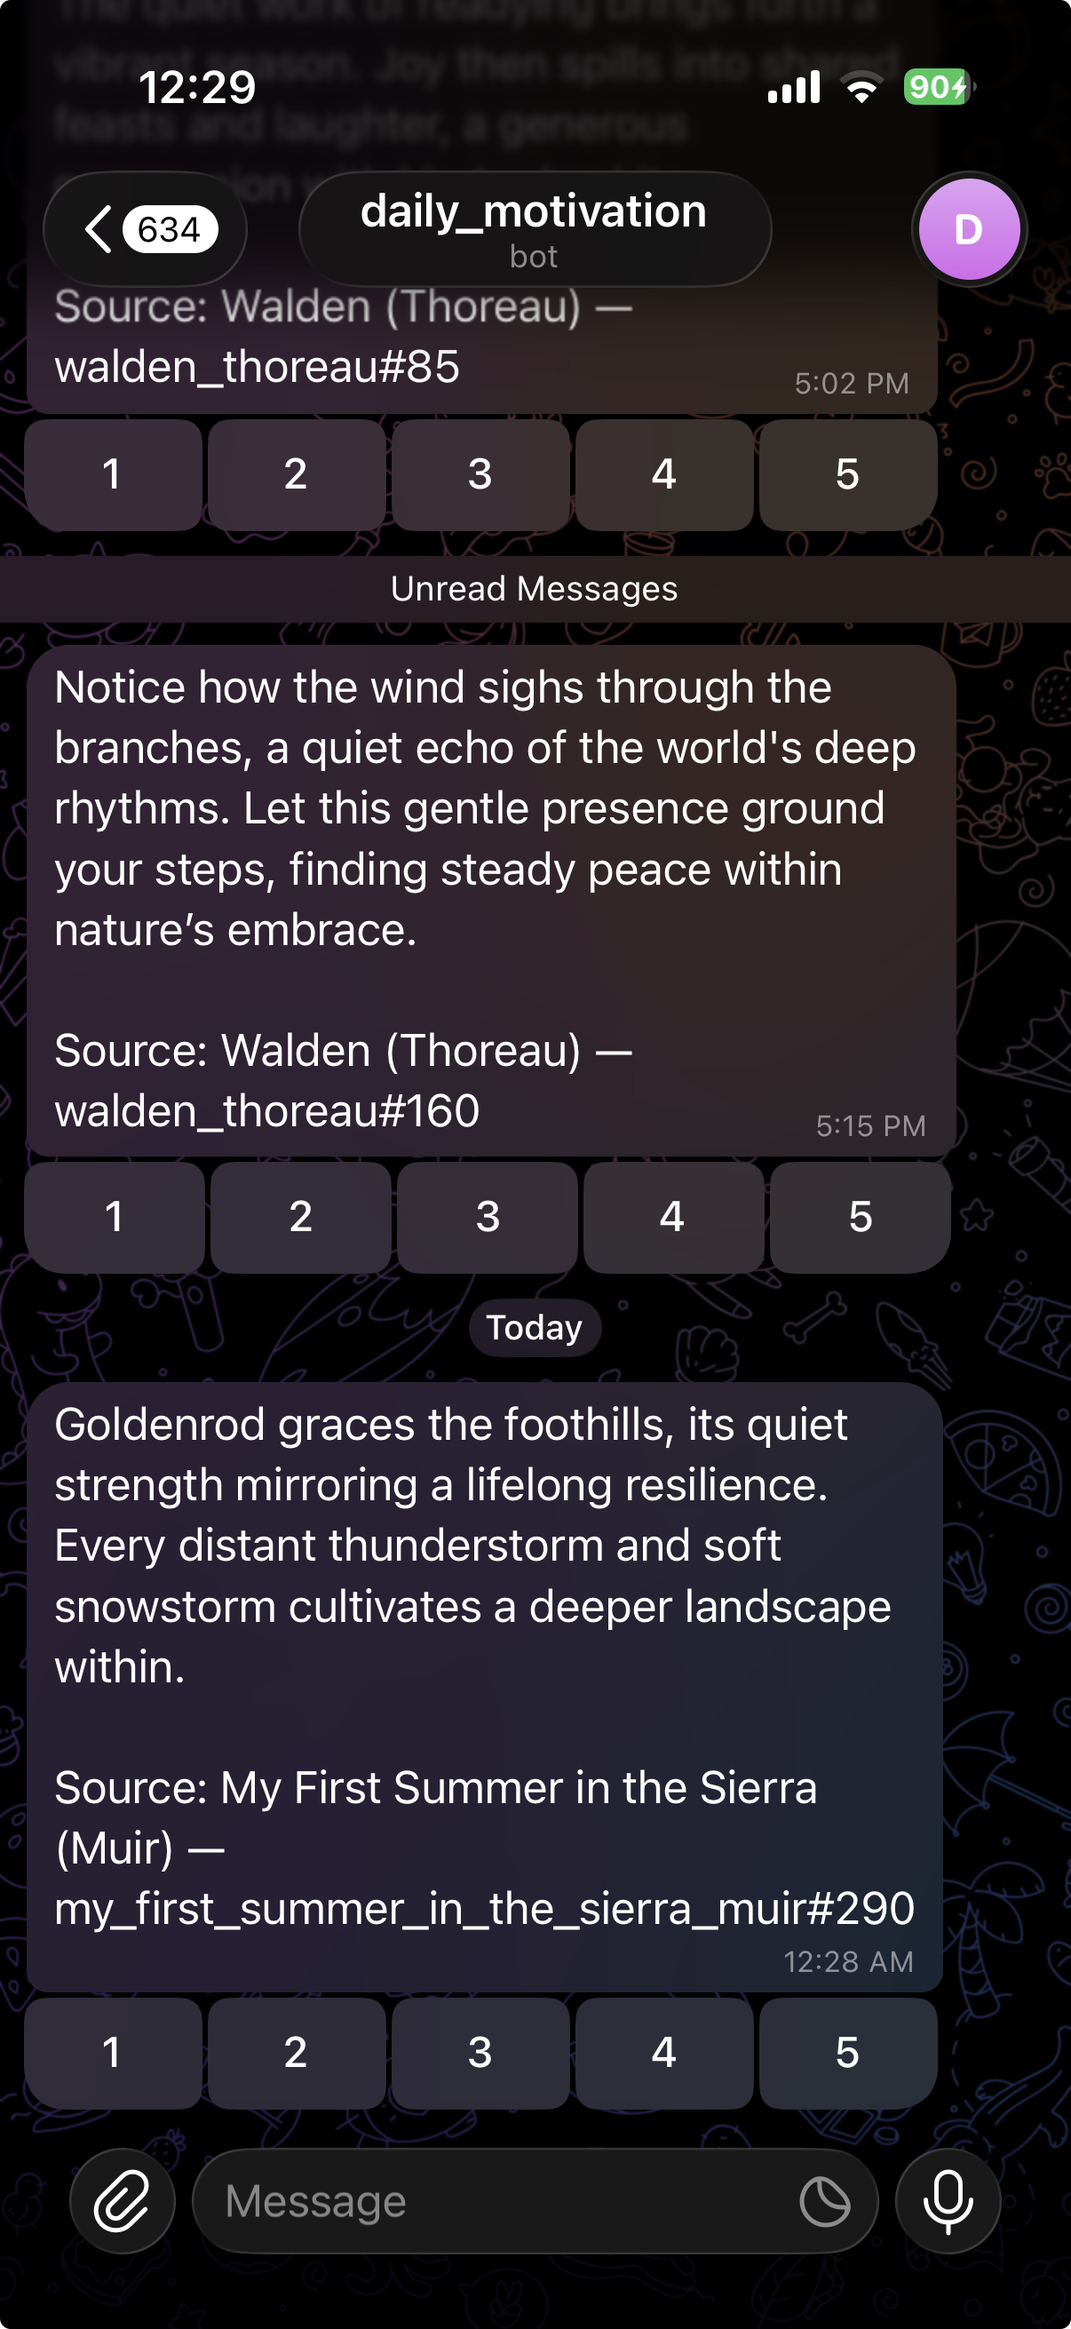
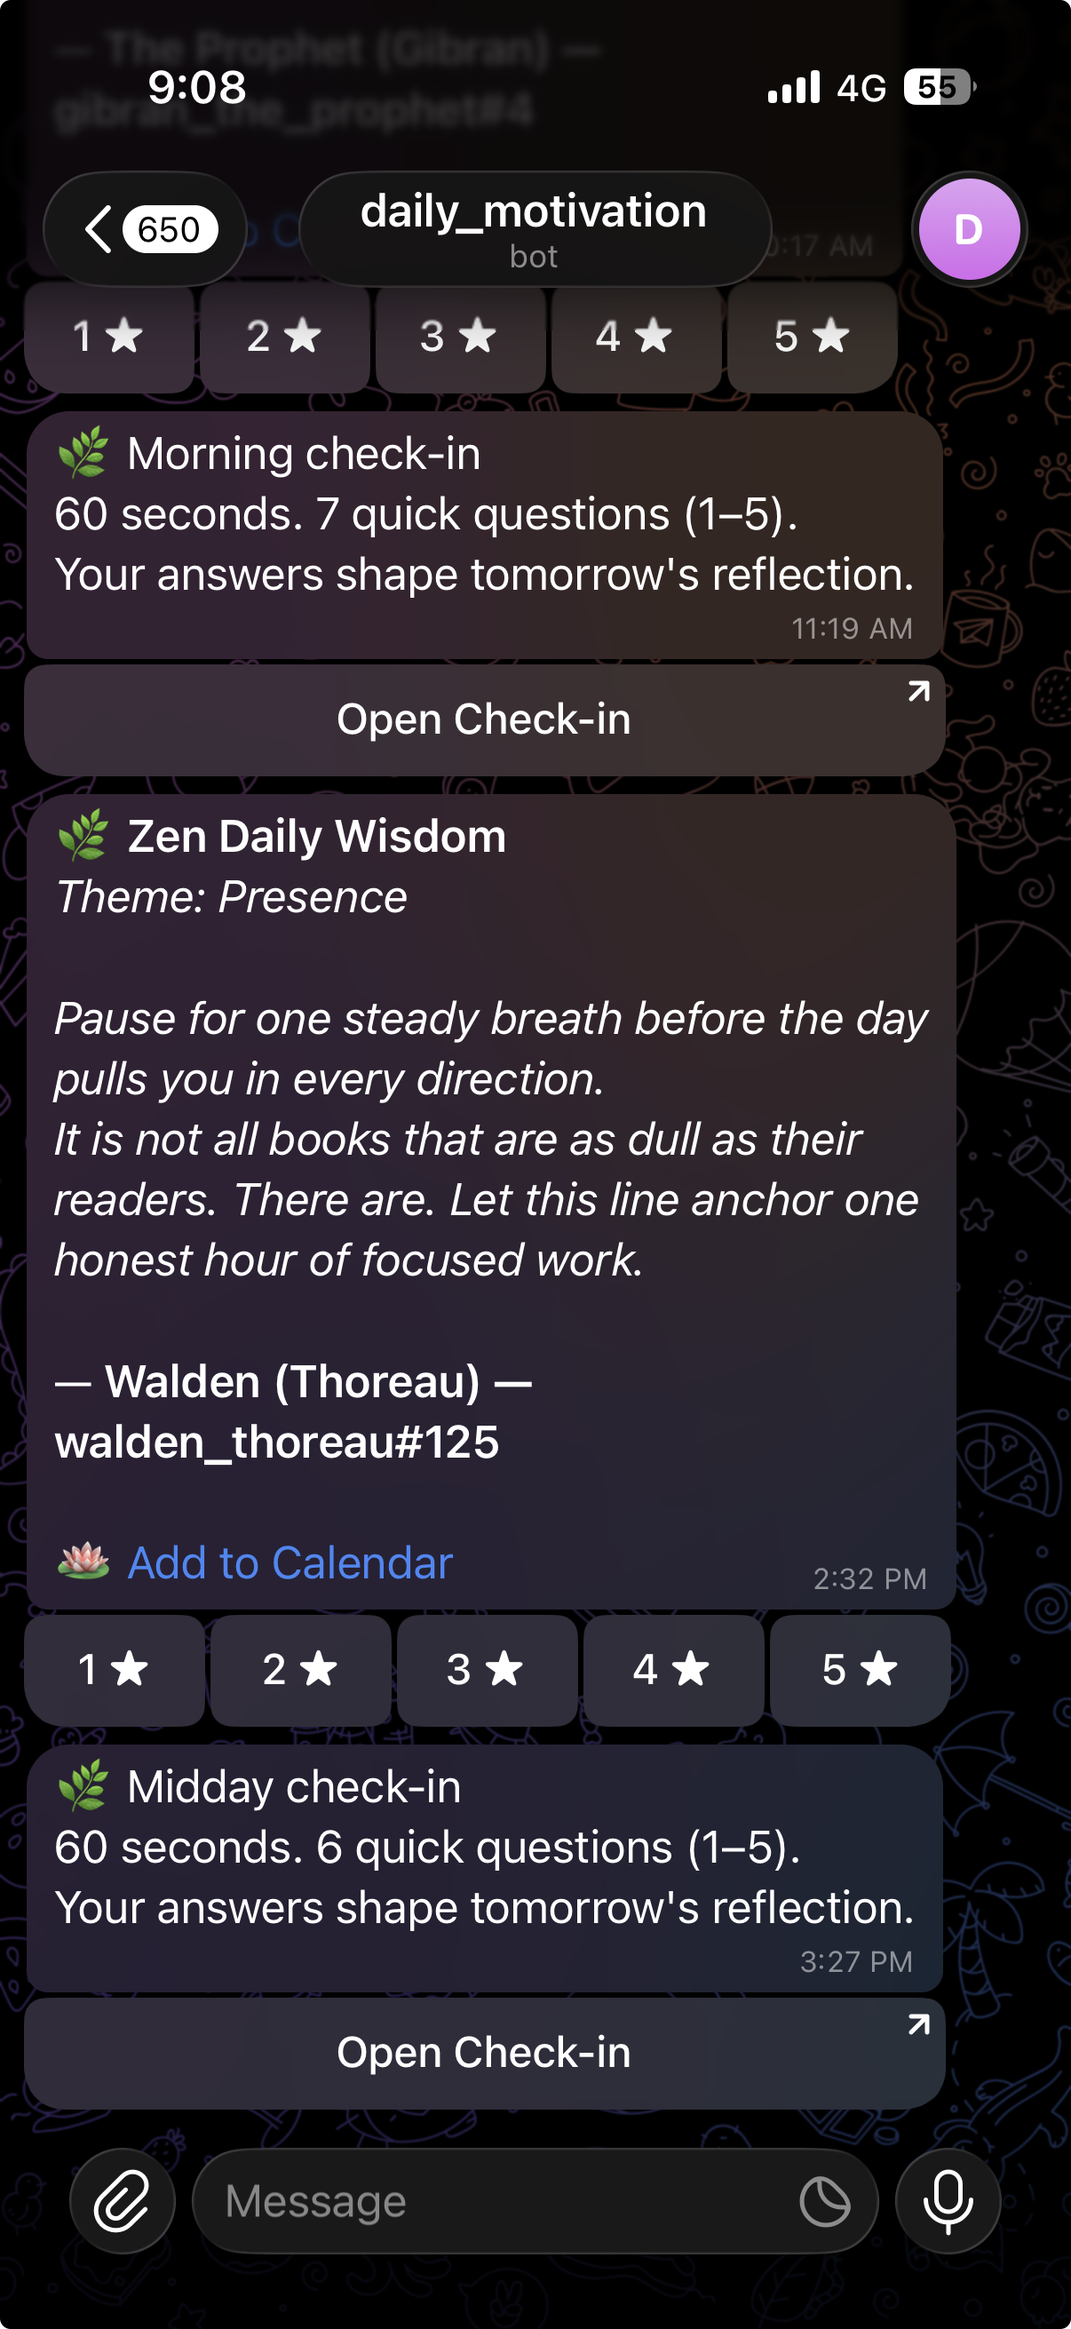
Beautify README — tech-stack badges, screenshot grid, evaluation summary, contact.
- Tech-stack shields-row (Python, FastAPI, Next.js, Supabase, pgvector,
  Gemini, Tailwind, Recharts, Jupyter, Pytest, Vercel, Northflank).
- 5 product screenshots arranged as a clean 2×2 grid + a centered
  Telegram column for the mobile shot.
- Architecture sketch as a small ASCII diagram (no extra rendering
  dependency).
- Evaluation table linking to the four notebooks with their headline
  numbers (bandit regret, recall@5, corpus stats, faithfulness status).
- Cost ledger making the $0/month design constraint explicit.
- Disclaimer + author contact at the end.

Old README was a working scaffold doc; this one is portfolio-readable
without losing any of the quick-start commands.

Made-with: Cursor

diff --git a/README.md b/README.md
@@ -1,89 +1,250 @@
+<div align="center">
+
 # Zen Daily Wisdom
 
-Personalized daily wisdom service using FastAPI, Next.js, Supabase, and Gemini with RAG, mood check-ins, and email/Telegram delivery.
+**A personal RAG service that delivers one short, grounded reflection per day — Stoic, Indian, Sufi, Zen, naturalist — to email and Telegram, tuned by your own mood check-ins.**
 
-Zen Daily Wisdom is a personal full-stack project that delivers short, high-quality daily reflections through Gmail and Telegram. It combines retrieval-augmented generation over a curated wisdom corpus, style rotation, and feedback/check-in personalization to improve relevance over time.
+[![Python](https://img.shields.io/badge/Python-3.12-3776AB?logo=python&logoColor=white)](https://www.python.org)
+[![FastAPI](https://img.shields.io/badge/FastAPI-0.115-009688?logo=fastapi&logoColor=white)](https://fastapi.tiangolo.com)
+[![Next.js](https://img.shields.io/badge/Next.js-15-000000?logo=nextdotjs&logoColor=white)](https://nextjs.org)
+[![TypeScript](https://img.shields.io/badge/TypeScript-5-3178C6?logo=typescript&logoColor=white)](https://www.typescriptlang.org)
+[![Supabase](https://img.shields.io/badge/Supabase-3ECF8E?logo=supabase&logoColor=white)](https://supabase.com)
+[![PostgreSQL](https://img.shields.io/badge/PostgreSQL-pgvector-336791?logo=postgresql&logoColor=white)](https://www.postgresql.org)
+[![Gemini](https://img.shields.io/badge/Gemini-2.5_Flash-4285F4?logo=googlegemini&logoColor=white)](https://ai.google.dev)
+[![Tailwind](https://img.shields.io/badge/Tailwind-4-06B6D4?logo=tailwindcss&logoColor=white)](https://tailwindcss.com)
+[![Recharts](https://img.shields.io/badge/Recharts-3-22B5BF?logo=react&logoColor=white)](https://recharts.org)
+[![Jupyter](https://img.shields.io/badge/Jupyter-Notebooks-F37626?logo=jupyter&logoColor=white)](https://jupyter.org)
+[![Pytest](https://img.shields.io/badge/Pytest-87_passing-0A9EDC?logo=pytest&logoColor=white)](https://pytest.org)
+[![Vercel](https://img.shields.io/badge/Vercel-Hosted-000000?logo=vercel&logoColor=white)](https://vercel.com)
+[![Northflank](https://img.shields.io/badge/Northflank-Hosted-7C5CFC)](https://northflank.com)
+[![License](https://img.shields.io/badge/license-Personal-555)](#disclaimer)
+[![Cost](https://img.shields.io/badge/cost-%240%2Fmonth-2f5b4f)](#cost)
 
-Canonical implementation details live in:
+</div>
 
-- `IMPLEMENTATION_PLAN.md`
+---
 
-## Current status
+## What it is
 
-- Manual credentials mostly completed (see `MANUAL_ACTIONS_REQUIRED.md`)
-- Python environment + corpus assets downloaded
-- Backend/FastAPI scaffold created
-- Frontend/Next.js scaffold created
-- Supabase migration skeleton added
-- CI + daily cron + keepalive workflows added
-- Check-in reminder cron workflow added (3x/day IST)
-- Dashboard auth gate + allowlist enabled (Supabase magic-link)
-- Telegram webhook endpoint added for inline rating and `/mood`
-- Northflank migration started for backend hosting
+A full-stack personal service combining **retrieval-augmented generation** over a hand-curated wisdom corpus, **time-aware EMA-style mood check-ins**, **Thompson-sampling personalization**, and beautifully styled multi-channel delivery — all on a strict $0/month free-tier budget.
 
-## Quick start (backend scaffold)
+- **Retrieval.** 4,606 public-domain passages from 13 traditions (Marcus Aurelius, Bhagavad Gita, Tao Te Ching, Thoreau, Rumi, Dhammapada, Aesop, etc.) chunked and embedded into pgvector.
+- **Generation.** Gemini 2.5 Flash composes a 30–60 word reflection grounded in one retrieved passage, with a forbidden-phrase / cliché-rejection guard and a faithfulness check against the source.
+- **Personalization.** A Thompson-sampling bandit over `(tradition, tone)` super-arms learns your taste from your own ratings; check-in answers (sleep, energy, focus, day-load, motivation, calm — questions that *vary by time of day*) feed a 0–100 weighted **Mood Score** that conditions retrieval.
+- **Delivery.** Zen-styled HTML email (Gmail API), Telegram with inline rating buttons, and a public no-login check-in form opened from a signed deep link.
+- **Eval.** Reproducible Jupyter notebooks for bandit convergence, corpus stats, RAG recall@k, and faithfulness — see [`EVALUATION.md`](EVALUATION.md).
+
+---
+
+## See it
+
+<table>
+  <tr>
+    <td width="50%" valign="top">
+      <p align="center"><b>Landing page</b><br/><sub>Vercel · public root</sub></p>
+      <img src="screenshots/frontend-page.png" alt="Public landing page" width="100%"/>
+    </td>
+    <td width="50%" valign="top">
+      <p align="center"><b>Dashboard</b><br/><sub>14-day mood trend, animated stats, Gemini-written fortnight narrative</sub></p>
+      <img src="screenshots/dashboard.png" alt="Authenticated dashboard" width="100%"/>
+    </td>
+  </tr>
+  <tr>
+    <td width="50%" valign="top">
+      <p align="center"><b>Daily reflection email</b><br/><sub>One passage · one grounded reflection · 1–5 rating buttons</sub></p>
+      <img src="screenshots/email-reflections.png" alt="Daily reflection email" width="100%"/>
+    </td>
+    <td width="50%" valign="top">
+      <p align="center"><b>Check-in reminder email</b><br/><sub>Window-tailored questions · signed no-login deep link</sub></p>
+      <img src="screenshots/email-checkin.png" alt="Check-in reminder email" width="100%"/>
+    </td>
+  </tr>
+  <tr>
+    <td colspan="2" align="center">
+      <p><b>Telegram delivery</b> — the same daily reflection plus check-in prompts, with inline rating buttons that update the bandit posterior in real time.</p>
+      <img src="screenshots/telegram-screenshot.png" alt="Telegram delivery" width="320"/>
+    </td>
+  </tr>
+</table>
+
+---
+
+## Architecture
+
+```
+                  ┌───────────────────────────────────────────────────┐
+                  │  GitHub Actions (cron)                            │
+                  │  · daily.yml      01:30 UTC / 07:00 IST           │
+                  │  · checkin-reminders.yml  3×/day IST              │
+                  │  · keepalive.yml  every 3 days                    │
+                  └───────────────┬───────────────────────────────────┘
+                                  │ HMAC-signed POST
+                                  ▼
+       ┌──────────────────────────┴──────────────────────────┐
+       │  FastAPI on Northflank — sandbox, always-on, $0     │
+       │  ───────────────────────────────────────────────    │
+       │  /internal/generate          /internal/checkin-…    │
+       │  /checkin/by-token (public)  /feedback (HMAC link)  │
+       │  /dashboard/* (Supabase JWT) /telegram/webhook      │
+       └────┬──────────────┬──────────┬──────────┬───────────┘
+            │              │          │          │
+            ▼              ▼          ▼          ▼
+   ┌────────────┐  ┌──────────────┐ ┌─────────┐ ┌──────────────┐
+   │  pgvector  │  │ Gemini 2.5   │ │  Gmail  │ │   Telegram   │
+   │ (Supabase) │  │ Flash + Emb. │ │   API   │ │    Bot API   │
+   │ 4,606 rows │  │  free tier   │ │         │ │              │
+   └─────┬──────┘  └──────┬───────┘ └─────────┘ └──────────────┘
+         │                │
+         │                └─── grounded reflection generation
+         │                     + per-submit Gemini observation
+         │                     + weekly fortnight narrative
+         │
+         └── Thompson-sampling bandit over (tradition, tone)
+             updates `bandit_state` on each feedback insert (PG trigger)
+
+                 Vercel — Next.js 15 dashboard + public /checkin form
+```
+
+**Key design decisions** are recorded as ADRs in [`IMPLEMENTATION_PLAN.md`](IMPLEMENTATION_PLAN.md) §20 — covering the choice of pgvector over Pinecone/Chroma, the two-tier corpus model, why Telegram instead of WhatsApp, the move from PIL image cards to text formatting, and the token-signed in-email check-in flow.
+
+---
+
+## Tech stack at a glance
+
+| Layer | Choice | Why |
+|---|---|---|
+| Frontend | Next.js 15 (App Router) on Vercel | Hobby tier; React Server Components; no sleep |
+| Frontend types | TypeScript 5 | Type safety on the client |
+| Styling | Tailwind 4 + custom zen tokens | Fast iteration; one palette across email + UI |
+| Charts | Recharts 3 | 14-day mood trend on the dashboard |
+| Backend | FastAPI 0.115 (Python 3.12) on Northflank | Async; clean OpenAPI; sandbox always-on |
+| Package mgr | `uv` (Python) · `pnpm` (JS) | Fast, lockfile-strict |
+| DB / vectors | Supabase Postgres + pgvector | One service for rows, vectors, auth, RLS |
+| LLM | Gemini 2.5 Flash + `text-embedding-004` | Generous free tier, 1M-token context |
+| Email | Gmail API + Jinja2 templates | Free; multi-recipient; HMAC-signed rating links |
+| Messaging | Telegram Bot API | Free, instant, inline keyboards for ratings |
+| Calendar | Google Calendar API | Native subscription from iPhone + Mac |
+| Scheduling | GitHub Actions cron | Free on private repos |
+| Tests | Pytest (87 passing) + Vitest | Backend math + endpoints + frontend types |
+| Eval | Jupyter notebooks + matplotlib | Bandit convergence, recall@k, corpus stats, faithfulness |
+
+---
+
+## Highlights
+
+- **Zero recurring cost.** Gmail / Telegram / Calendar / Gemini / GitHub Actions / Vercel Hobby / Northflank Sandbox / Supabase free tier — every paid surface is explicitly avoided. See `IMPLEMENTATION_PLAN.md` §15.
+- **Faithfulness-guarded RAG.** Every generated reflection is checked for token overlap with the retrieved passage and rejected on cliché openers (`"the passage…"`, `"this passage…"`) or known-bad phrases (`"you've got this"`, `"trust the journey"`, etc.).
+- **Bandit math, not theatre.** Posteriors live in a `bandit_state` table and update via a PG trigger on each feedback insert. The notebook in [`notebooks/bandit_convergence.ipynb`](notebooks/bandit_convergence.ipynb) shows convergence to the optimal arm within ~150–200 rounds at the production ε = 0.15.
+- **Time-tailored check-ins.** Morning, midday, and evening windows ask different questions (`sleep_quality` only matters in the morning; `tomorrow_clarity` only in the evening). 14-day weighted Mood Score on a 0–100 scale, with reverse-coded "challenge" items handled correctly. See `IMPLEMENTATION_PLAN.md` §12.5.
+- **One-click check-ins.** A signed token in the reminder email opens a no-login form on Vercel; submission writes to Supabase and returns a Gemini observation + a related corpus passage in the same screen.
+- **Hardened delivery.** Per-recipient Gmail send tolerates one bad address; localhost guard refuses to render broken URLs into outgoing email; bandit/Gemini failures degrade gracefully and never block the daily send.
+
+---
+
+## Evaluation
+
+Reproducible numbers in [`EVALUATION.md`](EVALUATION.md), backed by four committed notebooks:
+
+| Notebook | What it shows | Headline |
+|---|---|---|
+| [`bandit_convergence.ipynb`](notebooks/bandit_convergence.ipynb) | 30 seeds × 600 rounds × 3 regimes of synthetic Thompson sampling | Mean cumulative regret 47.1 (production) vs 124.8 (uniform baseline) |
+| [`corpus_stats.ipynb`](notebooks/corpus_stats.ipynb) | Per-tradition counts, length buckets, theme coverage, super-arm viability | 4,606 passages · 13 traditions · 13 viable arms · 0 theme holes |
+| [`rag_eval.ipynb`](notebooks/rag_eval.ipynb) | Recall@k over 30 hand-labeled queries pulled from `config/personal.yaml` stress themes | recall@5 = 0.767 (target ≥ 0.80; gap diagnosed in `EVALUATION.md` §3) |
+| [`faithfulness.ipynb`](notebooks/faithfulness.ipynb) | Token-overlap of generated reflection vs source passage | Framework shipped; numbers fill in once `sent_history` accumulates ≥ 30 rows |
+
+---
+
+## Quick start
 
 ```bash
+# Backend (FastAPI + pgvector)
 source .venv/bin/activate
 uv pip install -e "./apps/backend[dev]"
 uvicorn zen_backend.main:app --app-dir apps/backend/src --reload --port 8000
-```
 
-Health check:
+# Frontend (Next.js)
+corepack enable && corepack prepare pnpm@latest --activate
+pnpm install
+pnpm frontend:dev
 
-```bash
+# Smoke test
 curl http://localhost:8000/health
-```
 
-Apply Supabase migrations (after setting `SUPABASE_DB_DSN`):
-
-```bash
-source .venv/bin/activate
+# Apply Supabase migrations (after setting SUPABASE_DB_DSN)
 python scripts/apply_supabase_migrations.py
-```
 
-Seed passages from downloaded corpus assets:
-
-```bash
-source .venv/bin/activate
+# Seed the corpus from public-domain source files
 python scripts/seed_passages_to_supabase.py --include-silver
-```
-
-Backfill pgvector embeddings for seeded passages:
-
-```bash
-source .venv/bin/activate
 python scripts/backfill_passage_embeddings.py
-```
 
-Trigger generation endpoint locally (when backend is running):
-
-```bash
-source .venv/bin/activate
+# Trigger a generation locally
 python scripts/run_internal_generate.py --force
 ```
 
-## Quick start (frontend scaffold)
+Required environment variables and one-time manual setup are documented in `MANUAL_ACTIONS_REQUIRED.md` (gitignored — not in this repo). High level:
 
-1. Install pnpm (if missing): `corepack enable && corepack prepare pnpm@latest --activate`
-2. Install deps: `pnpm install`
-3. Run app: `pnpm frontend:dev`
+- Supabase: project + service role key + DSN (use the **pooler** DSN locally; direct hosts are deprecated)
+- Gemini: API key from a billing-disabled GCP project
+- Gmail OAuth + Google Calendar OAuth refresh tokens
+- Telegram bot token + webhook secret
+- HMAC secrets for `INTERNAL_HMAC_SECRET`, `FEEDBACK_LINK_SECRET`, optional `CHECKIN_LINK_SECRET`
 
-Required auth env vars:
+Northflank deployment guide: [`docs/NORTHFLANK_BACKEND_DEPLOY.md`](docs/NORTHFLANK_BACKEND_DEPLOY.md).
 
-- `NEXT_PUBLIC_SUPABASE_URL`
-- `NEXT_PUBLIC_SUPABASE_ANON_KEY`
-- `ALLOWED_EMAILS` (backend check)
-- `NEXT_PUBLIC_ALLOWED_EMAILS` (frontend pre-check)
+---
 
-Register Telegram webhook (after deploying backend over HTTPS):
+## Project structure
 
-```bash
-source .venv/bin/activate
-python scripts/register_telegram_webhook.py
+```
+.
+├── apps/
+│   ├── backend/                 FastAPI · uv-managed · 87 tests passing
+│   │   ├── src/zen_backend/
+│   │   │   ├── routes/          /internal /checkin /feedback /dashboard /telegram
+│   │   │   ├── services/        bandit · checkin_response · dashboard_narrative
+│   │   │   │                    generator · gemini_client · gmail_client · telegram
+│   │   │   ├── security/        hmac_sig · checkin_token · jwt_verify
+│   │   │   ├── db/              client · pg_client · queries
+│   │   │   └── templates/       email_zen.html.j2  email_checkin.html.j2
+│   │   └── tests/               unit + endpoint integration tests
+│   └── frontend/                Next.js 15 · App Router · TypeScript
+│       ├── app/                 dashboard, /checkin, /login, /feedback/thanks
+│       ├── components/          MoodLineChart · CompletionRing · WeeklyNarrative · …
+│       └── middleware.ts        Supabase Auth + allowlist gate
+├── infra/supabase/migrations/   001-006: schema · RLS · bandit trigger · check-ins · …
+├── scripts/                     OAuth setup · seed corpus · embeddings · eval export
+├── notebooks/                   bandit · corpus stats · rag eval · faithfulness
+├── assets/
+│   ├── corpus/gold/             13 PD source files (Walden, Tao Te Ching, …)
+│   └── eval/                    rag_eval_queries.jsonl · gitignored snapshots
+├── EVALUATION.md                Methodology + numbers + reproducibility
+├── IMPLEMENTATION_PLAN.md       Single source of truth · ADRs · roadmap (gitignored)
+└── README.md                    you are here
 ```
 
-Northflank deployment guide:
+---
 
-- `docs/NORTHFLANK_BACKEND_DEPLOY.md`
+## Cost
 
+| Service | Tier | Monthly cost |
+|---|---|---|
+| Vercel (Hobby) | static frontend, no functions on paid path | **$0** |
+| Northflank (Sandbox) | one always-on backend service | **$0** |
+| Supabase (Free) | Postgres + pgvector + Auth | **$0** |
+| Gemini (Free) | 2.5 Flash + text-embedding-004 | **$0** |
+| Gmail / Telegram / Google Calendar APIs | personal use | **$0** |
+| GitHub Actions | private repo, ≤ 2,000 min/mo | **$0** |
+| **Total** | | **$0 / month** |
+
+Hard guards in code: the Gemini API key lives in a billing-**disabled** GCP project, `GEMINI_DAILY_CALL_CAP=20` is enforced in the client, and a 3-day Supabase keepalive cron prevents the project from auto-pausing.
+
+---
+
+## Disclaimer
+
+This project is **built for personal use**. The dashboard is gated by an explicit email allowlist; magic-link / password authentication is restricted to a small set of accounts I control. The corpus is entirely **public-domain English** (or PD English translations) — see `IMPLEMENTATION_PLAN.md` §9 for source URLs and licenses.
+
+If you'd like access, or to discuss any part of the architecture / evaluation / personalization design, please reach out.
+
+**Author:** Rishabh Kumar
+**Email:** [rishabhkumards07@gmail.com](mailto:rishabhkumards07@gmail.com)
